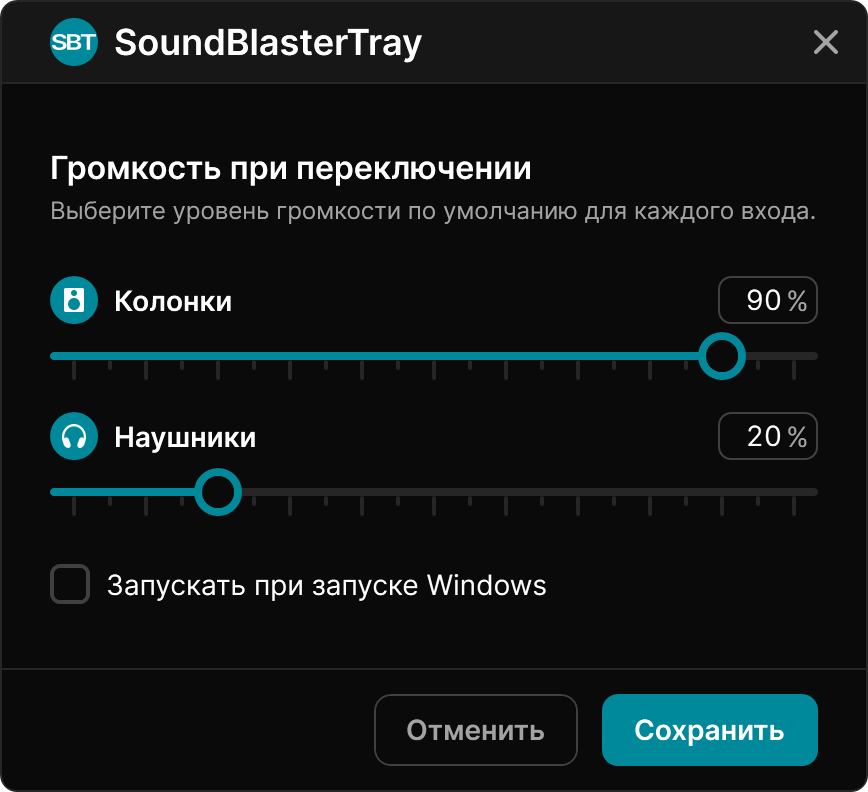
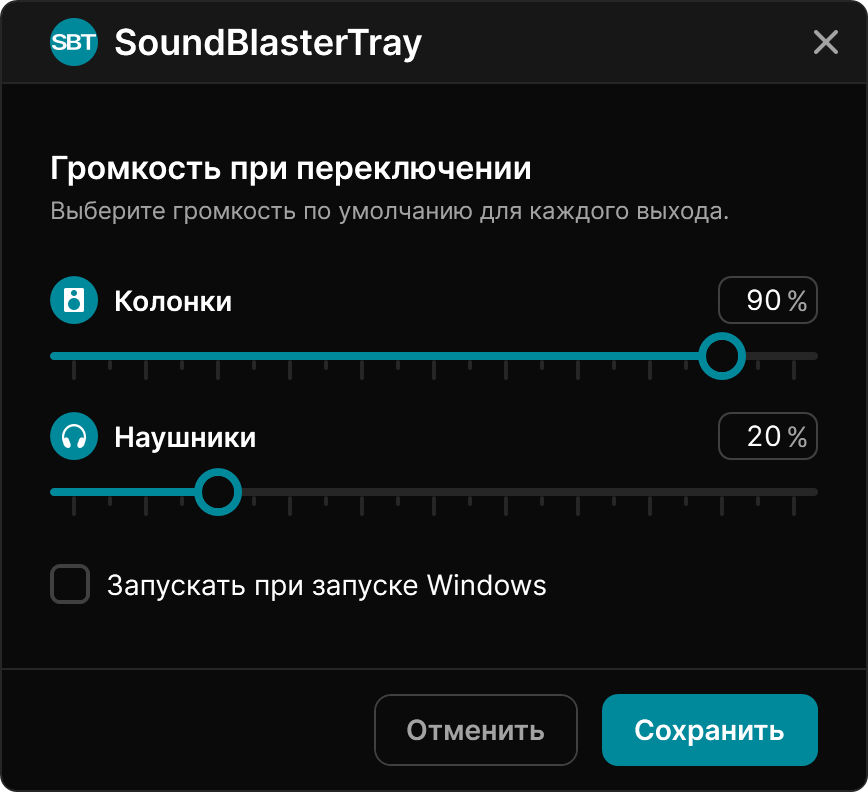
Prepare SoundBlasterTray 1.3.1 public binary release

Changed region(s): [[0.1866, 0.2424, 0.9332, 0.303]]

diff --git a/README.ru.md b/README.ru.md
@@ -1,4 +1,4 @@
-# SoundBlasterTray — переключение колонок и наушников Creative
+# SoundBlasterTray — переключение колонок и наушников Creative
 
 **С колонок на наушники — одним кликом в трее.**
 
@@ -23,6 +23,7 @@
 - Отдельная громкость по умолчанию для каждого выхода.
 - Временное приглушение и проверка громкости при переключении.
 - Автозапуск вместе с Windows по желанию.
+- Локальная работа без регистрации и учётной записи.
 - Автоматический выбор светлой или тёмной темы Windows.
 - Русский интерфейс для русского языка интерфейса Windows, английский для остальных.
 - Автоопределение совместимых устройств Creative и понятные сообщения об ошибках.
@@ -39,10 +40,12 @@
 
 Нет. SoundBlasterTray дополняет привычный сценарий работы с Sound Blaster Command: переключает колонки и наушники и применяет заданную громкость. Эквалайзер, эффекты и настройка устройства остаются в Command. Утилита обращается к установленному драйверу Creative, а не управляет окном Command.
 
+**Нужно ли держать Sound Blaster Command открытым?** Нет. Утилита работает напрямую с установленным драйвером; окно Command можно закрыть.
+
 ## Установка
 
 1. Откройте [Releases](https://github.com/kmdavydov/SoundBlasterTray/releases/latest).
-2. В разделе **Assets** скачайте `SoundBlasterTray-1.3.0-Setup.exe`. Автоматические архивы GitHub «Source code» содержат документацию этой страницы, а не программу.
+2. В разделе **Assets** скачайте `SoundBlasterTray-1.3.1-Setup.exe`. Автоматические архивы GitHub «Source code» содержат документацию этой страницы, а не программу.
 3. Перед установкой или обновлением закройте запущенную утилиту через «Выход» в меню трея.
 4. Запустите установщик. Установка выполняется для текущего пользователя без прав администратора.
 5. Перед первым переключением задайте подходящую громкость в настройках. Начальные значения: **колонки 90%, наушники 20%**.

diff --git a/README.md b/README.md
@@ -1,4 +1,4 @@
-# SoundBlasterTray — speaker & headphone switcher for Creative
+# SoundBlasterTray — speaker & headphone switcher for Creative
 
 **Your Sound Blaster output, one tray click away.**
 
@@ -23,6 +23,7 @@ By [kmdavydov](https://github.com/kmdavydov). An independent community utility, 
 - Set separate volume levels for speakers and headphones.
 - Temporary muting and volume checks during switching.
 - Optional startup with Windows.
+- Runs locally without an account or sign-in.
 - Automatic light/dark theme based on the Windows app theme.
 - Russian UI on Russian Windows display languages; English otherwise.
 - Automatic detection of compatible Creative devices, with explanations when switching is unavailable.
@@ -39,10 +40,12 @@ By [kmdavydov](https://github.com/kmdavydov). An independent community utility, 
 
 No. SoundBlasterTray is a focused companion for people who use Sound Blaster Command: it handles speaker/headphone switching and the volume applied during a switch. It does not replace Command's equalizer, effects or device configuration. It talks to the installed Creative driver rather than automating the Command window.
 
+**Does Sound Blaster Command need to stay open?** No. SoundBlasterTray uses the installed driver directly; the Command window can remain closed.
+
 ## Download and install
 
 1. Open [Releases](https://github.com/kmdavydov/SoundBlasterTray/releases/latest).
-2. Under **Assets**, download `SoundBlasterTray-1.3.0-Setup.exe`. GitHub's automatically generated “Source code” archives contain this documentation, not the application.
+2. Under **Assets**, download `SoundBlasterTray-1.3.1-Setup.exe`. GitHub's automatically generated “Source code” archives contain this documentation, not the application.
 3. Close a running SoundBlasterTray instance using **Exit** in its tray menu before installing or updating.
 4. Run the installer. Installation is per-user and does not require administrator rights.
 5. Open Settings and choose suitable volume levels before your first switch. Defaults: **speakers 90%, headphones 20%**.
